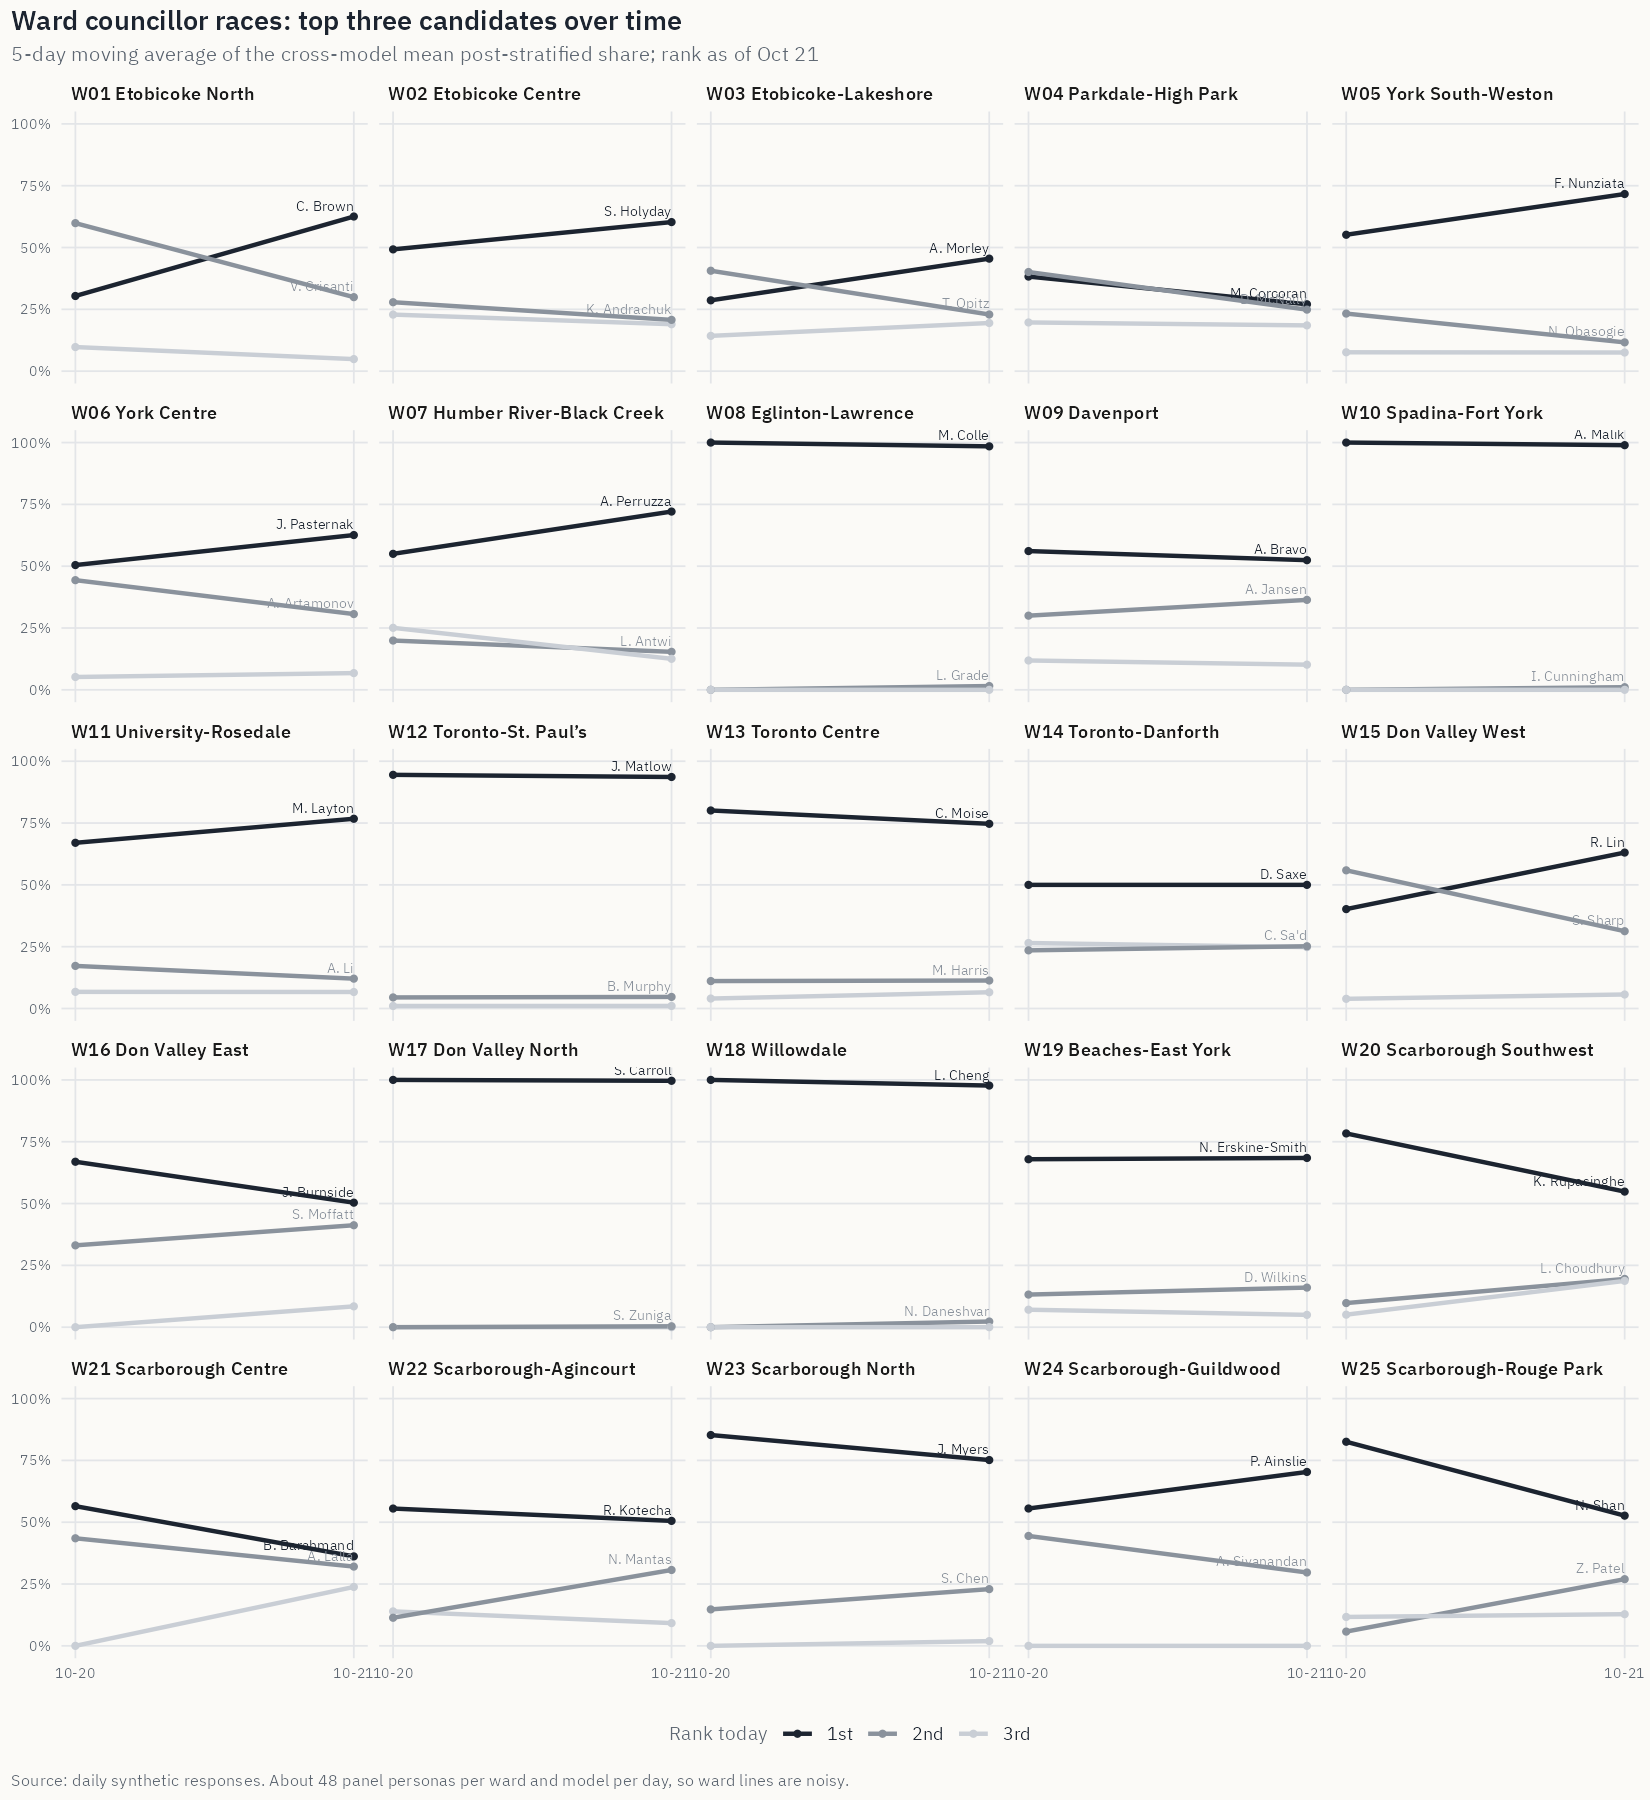
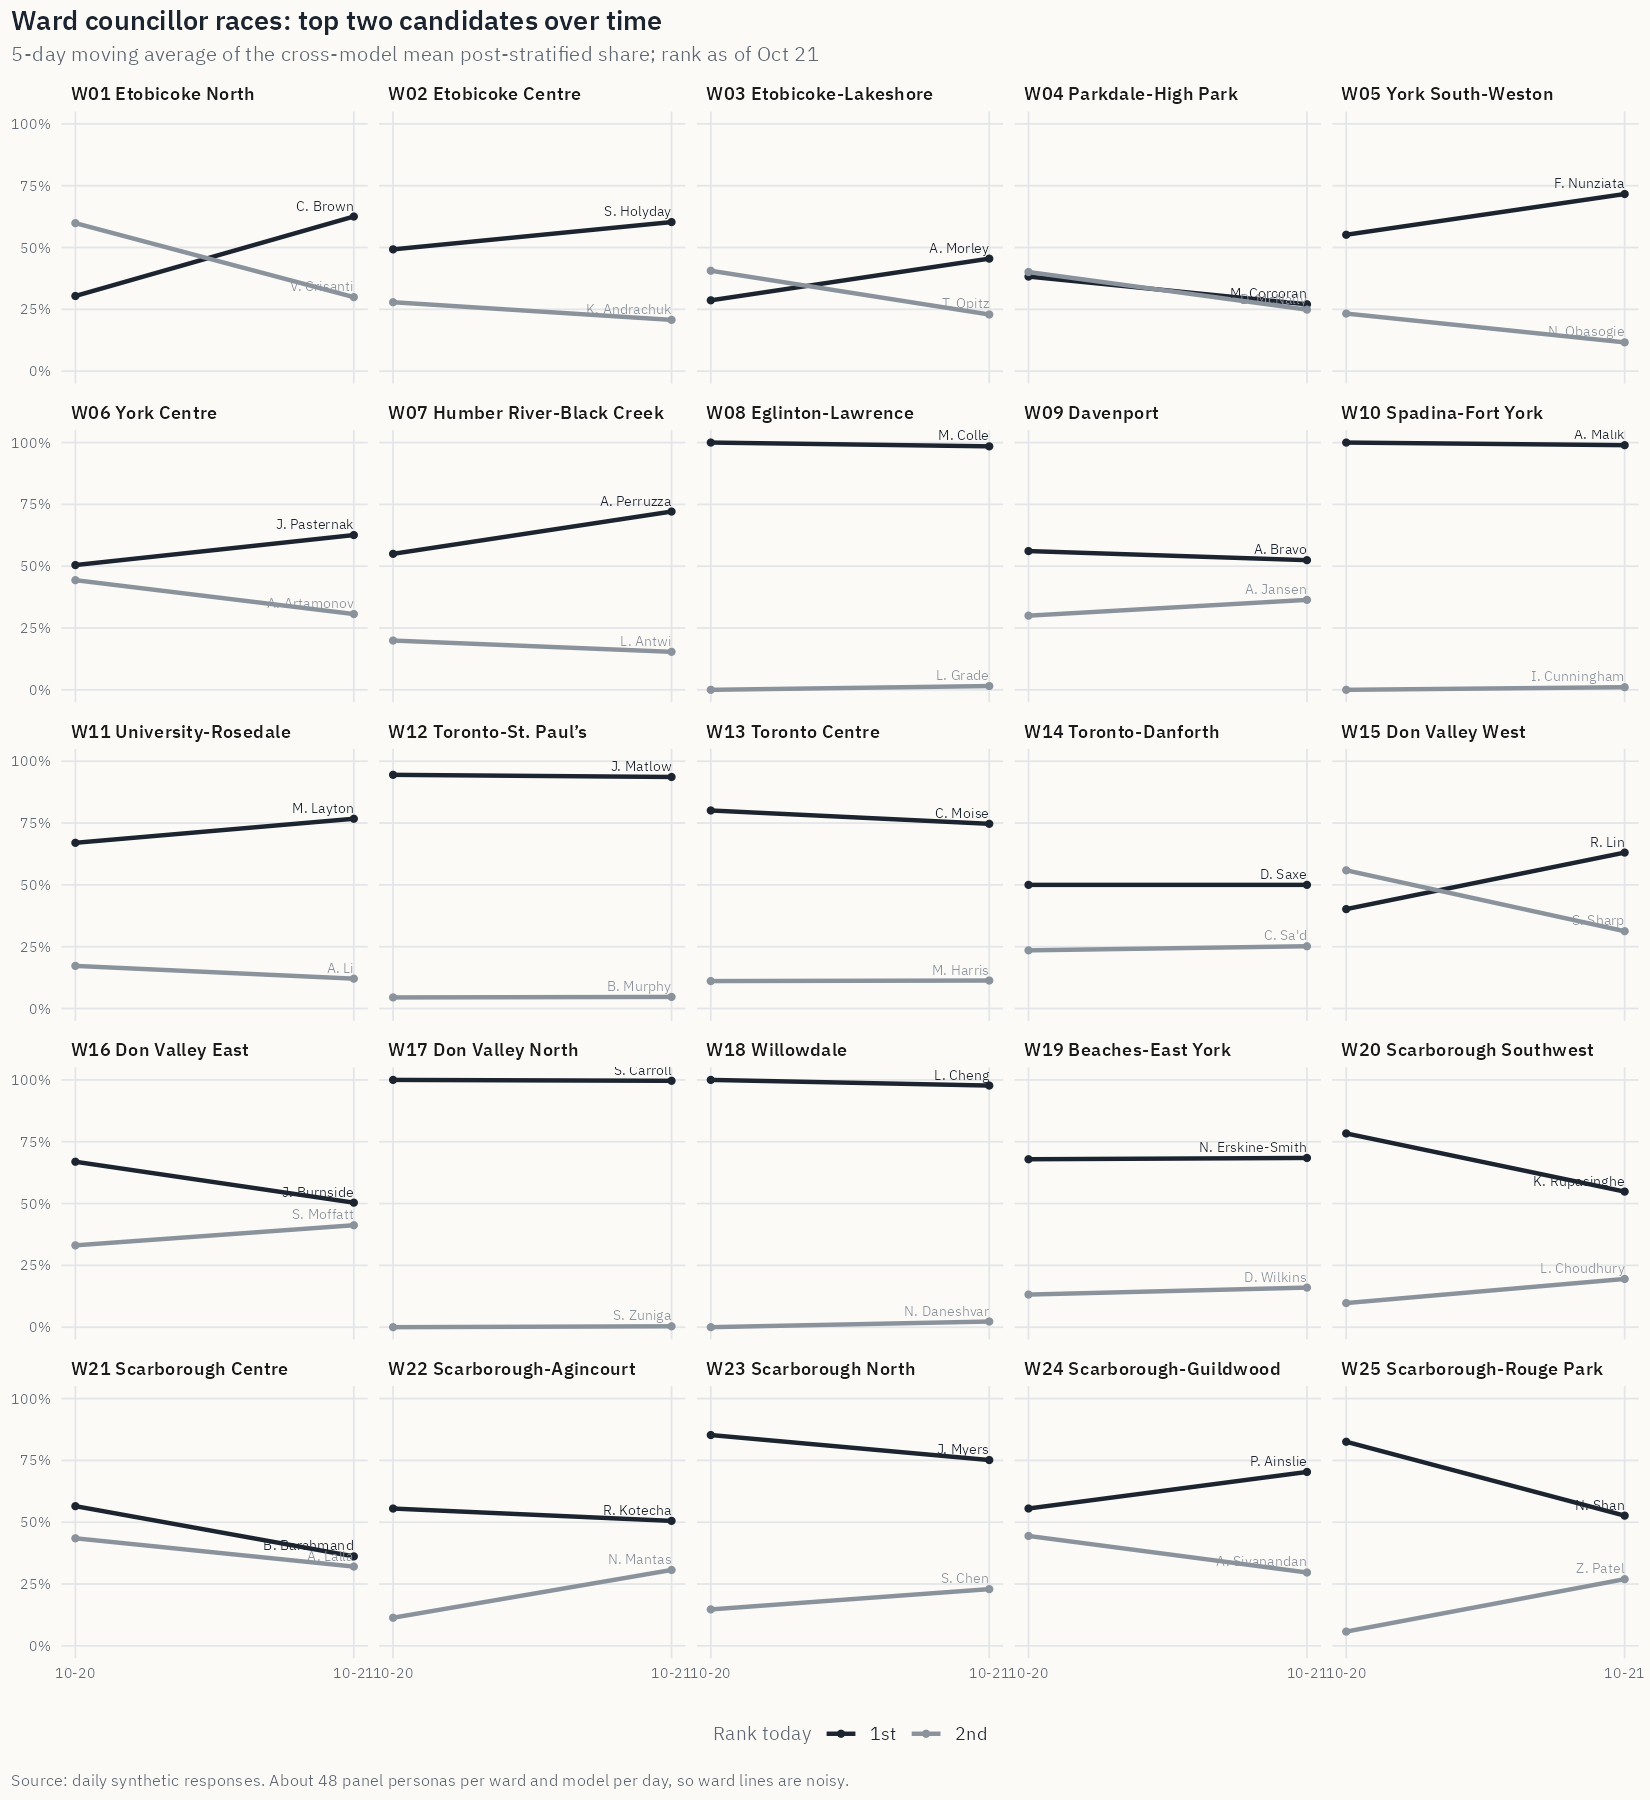
Daily ward chart shows top two; make the active TOC entry stand out
Drop the third candidate from the daily ward small multiples. Style the
table of contents so the current section is ink and bold and the rest are
muted (previously the active entry was the dimmest one).

Changed region(s): [[0.2164, 0.0, 0.4018, 0.0311]]

diff --git a/website/custom.scss b/website/custom.scss
@@ -29,7 +29,6 @@ $navbar-fg:        #e8eaed;
 $navbar-hl:        #ffffff;
 $footer-bg:        $paper;
 $footer-fg:        $muted;
-$toc-color:        $muted;
 $code-color:       $ink;
 $code-bg:          #f1efe9;
 
@@ -111,3 +110,11 @@ div.callout.callout-titled .callout-header {
   .navbar .navbar-nav { flex-wrap: nowrap; }
 }
 .nw { white-space: nowrap; }
+
+// Table of contents: the current section is dark and bold, the rest muted.
+#TOC a.nav-link { color: $muted !important; }
+#TOC a.nav-link.active {
+  color: $ink !important;
+  font-weight: 600;
+  border-left-color: $ink !important;
+}
